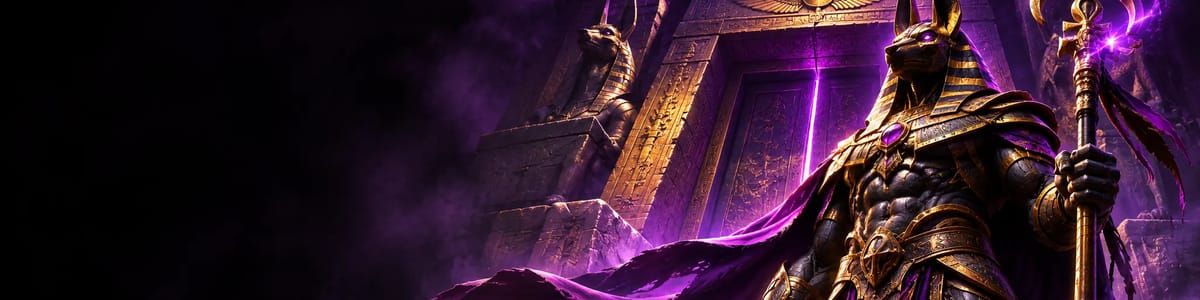
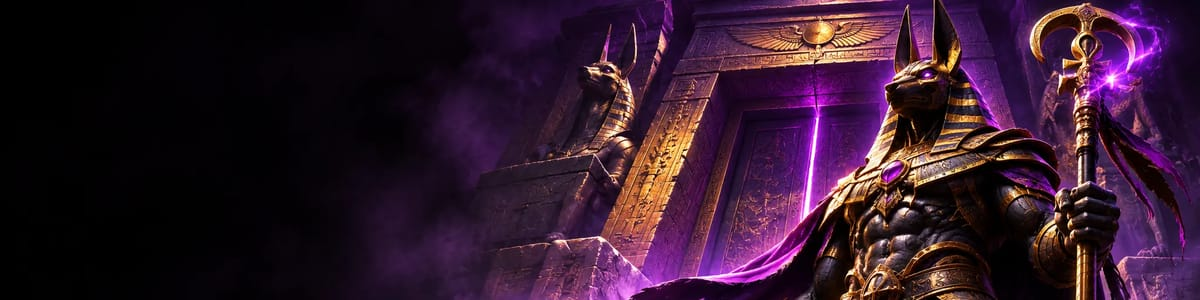
Cartes du pass : cadrage remonté (têtes visibles)

diff --git a/src/lib/cards.js b/src/lib/cards.js
@@ -43,9 +43,9 @@ const CARDS = {
   "rang-champion": { rarity: "legendaire", art: { type: "rank", rank: "Champion", title: "#f0a6e8", image: "/images/cartes/champion.webp", og: "/images/cartes/og/champion.jpg", position: "center 60%", mobilePosition: "22% center", light: true } },
   "rang-legende": { rarity: "legendaire", art: { type: "rank", rank: "Légende", title: "#ff8a3d", video: "/images/cartes/legende.mp4", poster: "/images/cartes/legende-poster.webp", cover: true, position: "center", mobilePosition: "40% center", og: "/images/cartes/og/legende.jpg", light: true } },
   // Pass de la saison 1 : dessins provisoires, remplacés par art.image quand les illustrations existent.
-  "pass-s1-eclaireur": { rarity: "commune", art: { type: "illustration", glyph: "5", hue: "#d4af37", image: "/images/cartes/pass-s1-eclaireur.webp", og: "/images/cartes/og/pass-s1-eclaireur.jpg", position: "center 25%", mobilePosition: "62% center" } },
-  "pass-s1-sentinelle": { rarity: "rare", art: { type: "illustration", glyph: "15", hue: "#5cc8ff", image: "/images/cartes/pass-s1-sentinelle.webp", og: "/images/cartes/og/pass-s1-sentinelle.jpg", position: "center 25%", mobilePosition: "62% center" } },
-  "pass-s1-gardien": { rarity: "epique", art: { type: "illustration", glyph: "25", hue: "#8b5cf6", image: "/images/cartes/pass-s1-gardien.webp", og: "/images/cartes/og/pass-s1-gardien.jpg", position: "center 25%", mobilePosition: "62% center" } },
+  "pass-s1-eclaireur": { rarity: "commune", art: { type: "illustration", glyph: "5", hue: "#d4af37", image: "/images/cartes/pass-s1-eclaireur.webp", og: "/images/cartes/og/pass-s1-eclaireur.jpg", position: "center 10%", mobilePosition: "62% center" } },
+  "pass-s1-sentinelle": { rarity: "rare", art: { type: "illustration", glyph: "15", hue: "#5cc8ff", image: "/images/cartes/pass-s1-sentinelle.webp", og: "/images/cartes/og/pass-s1-sentinelle.jpg", position: "center 10%", mobilePosition: "62% center" } },
+  "pass-s1-gardien": { rarity: "epique", art: { type: "illustration", glyph: "25", hue: "#8b5cf6", image: "/images/cartes/pass-s1-gardien.webp", og: "/images/cartes/og/pass-s1-gardien.jpg", position: "center 0%", mobilePosition: "62% center" } },
   "pass-s1-pharaon": { rarity: "legendaire", art: { type: "illustration", glyph: "30", hue: "#f5b83d" } },
   "premier-sang": { rarity: "commune", art: { type: "illustration", glyph: "1", hue: "#f87171", image: "/images/cartes/premier-sang.webp", og: "/images/cartes/og/premier-sang.jpg", position: "center 35%", mobilePosition: "62% center" } },
   domination: { rarity: "commune", art: { type: "illustration", glyph: "10", hue: "#d4af37", image: "/images/cartes/domination.webp", og: "/images/cartes/og/domination.jpg", position: "center 25%", mobilePosition: "62% center" } },
